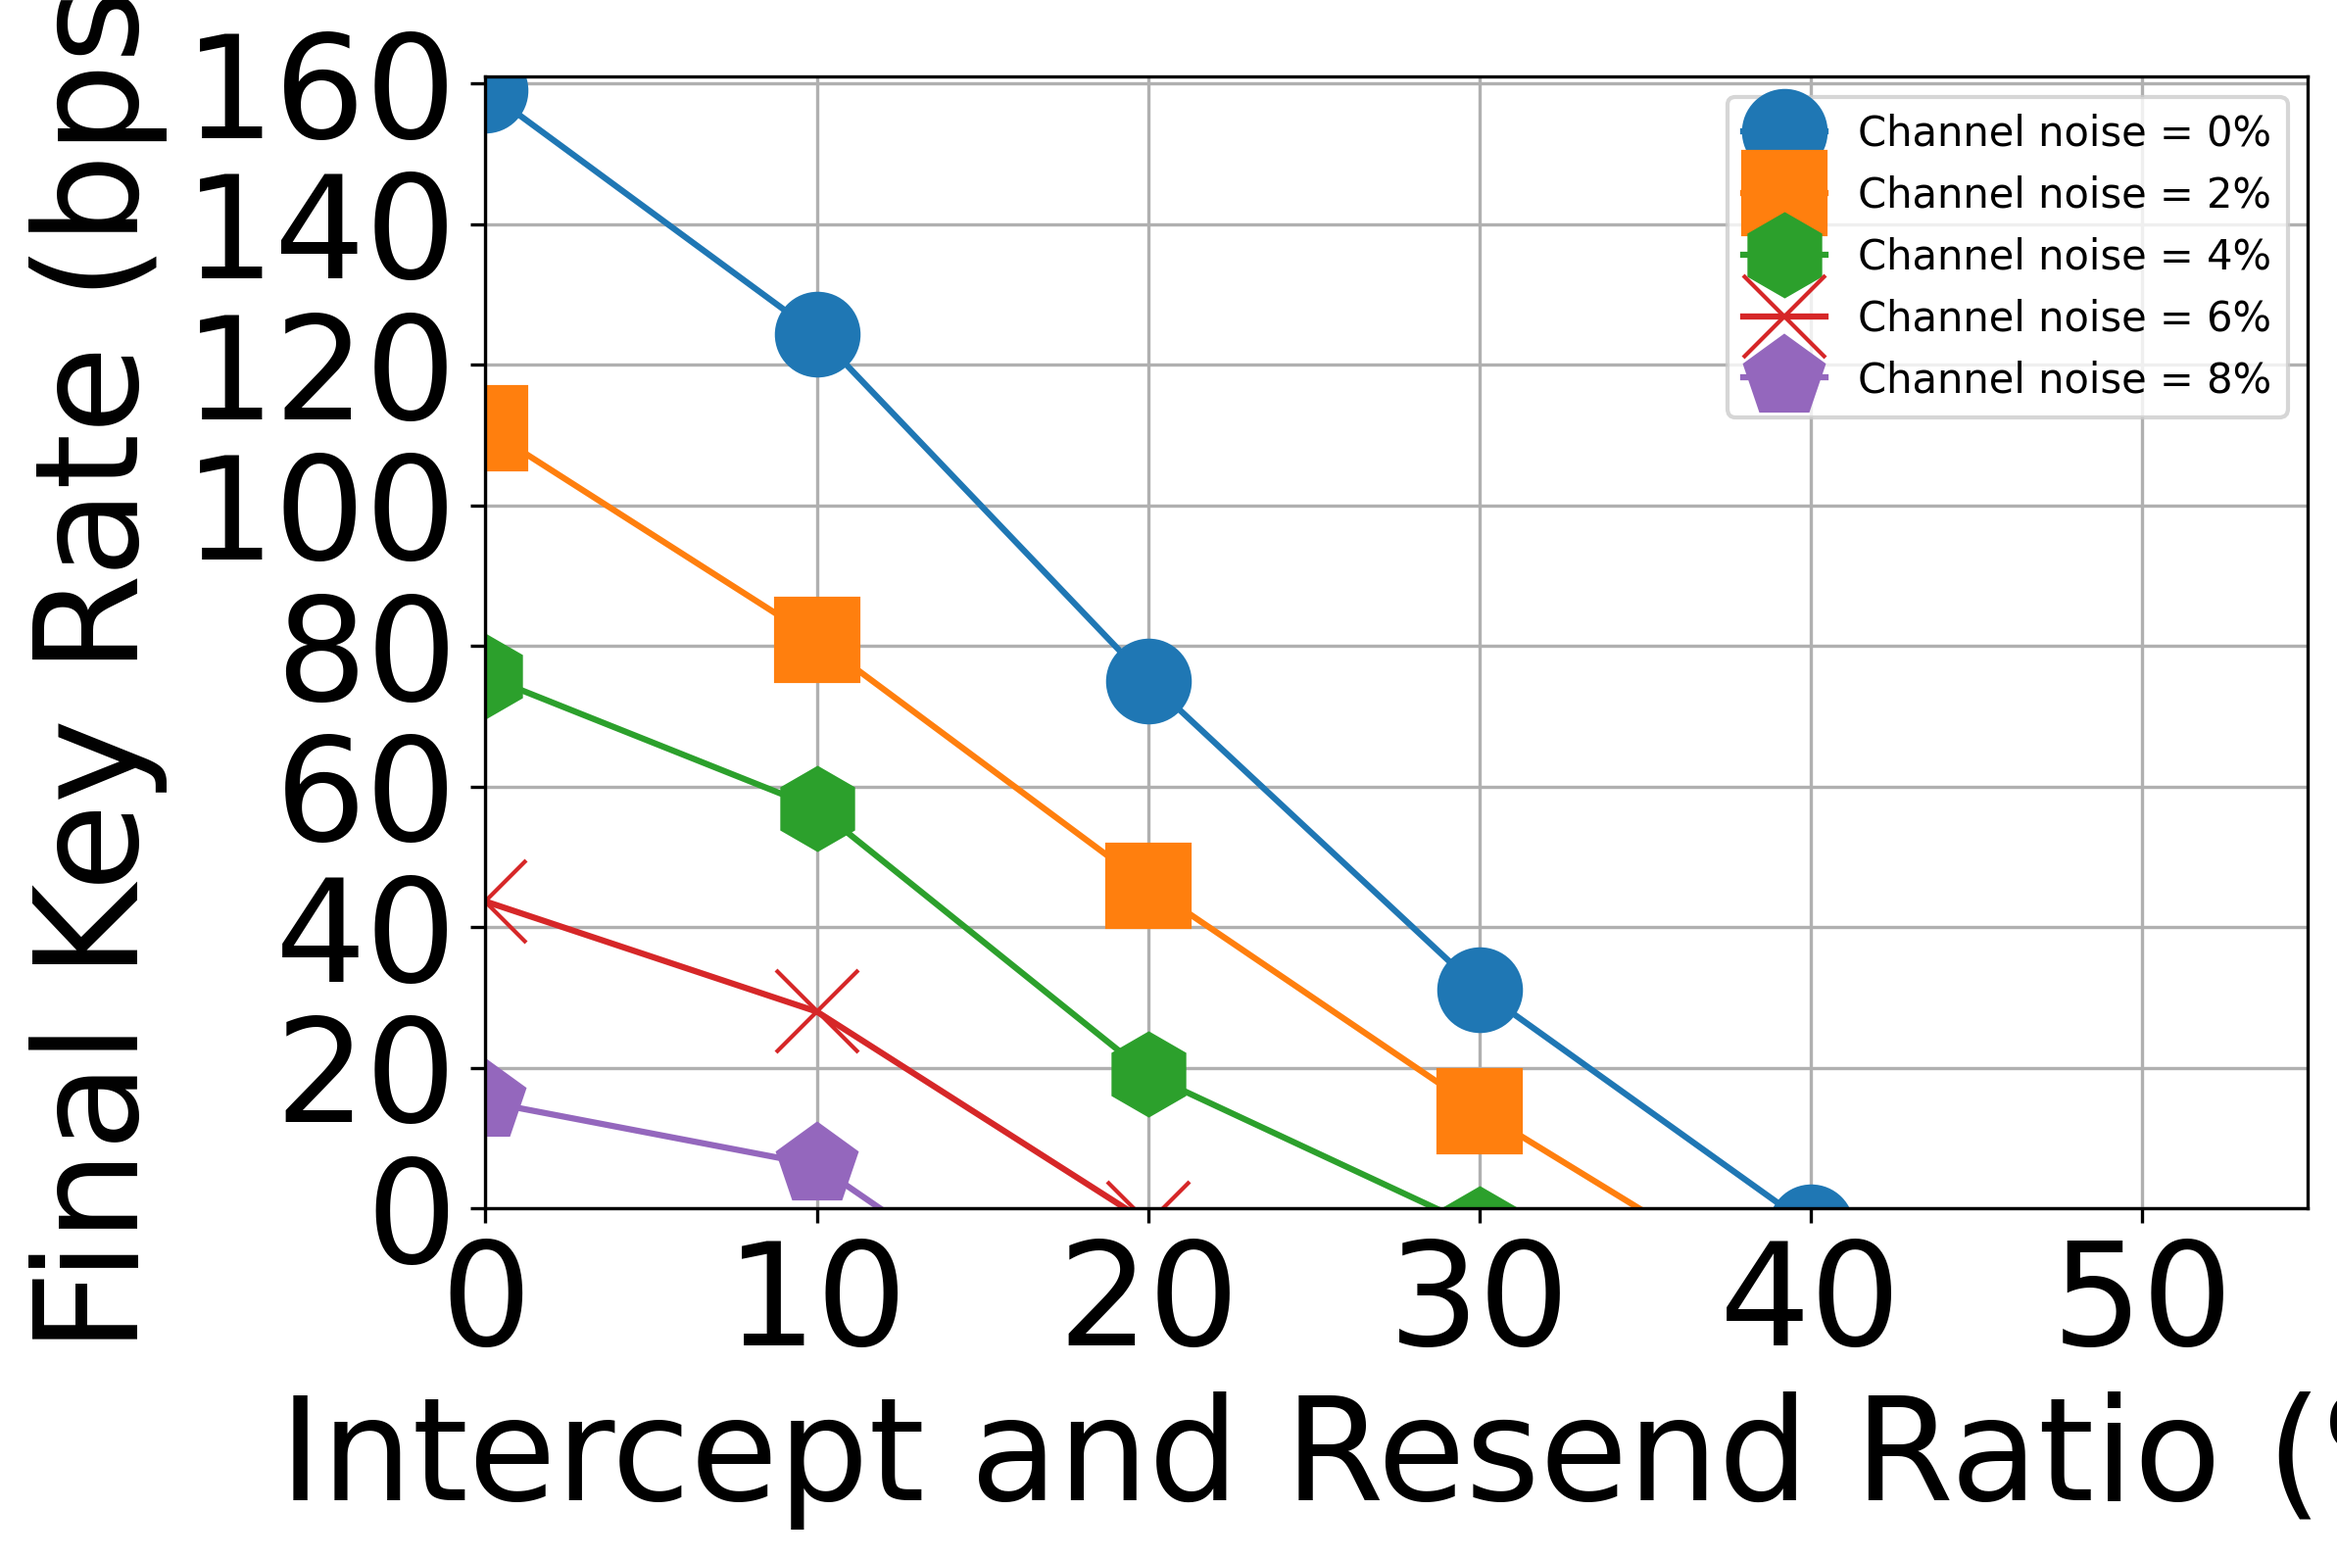
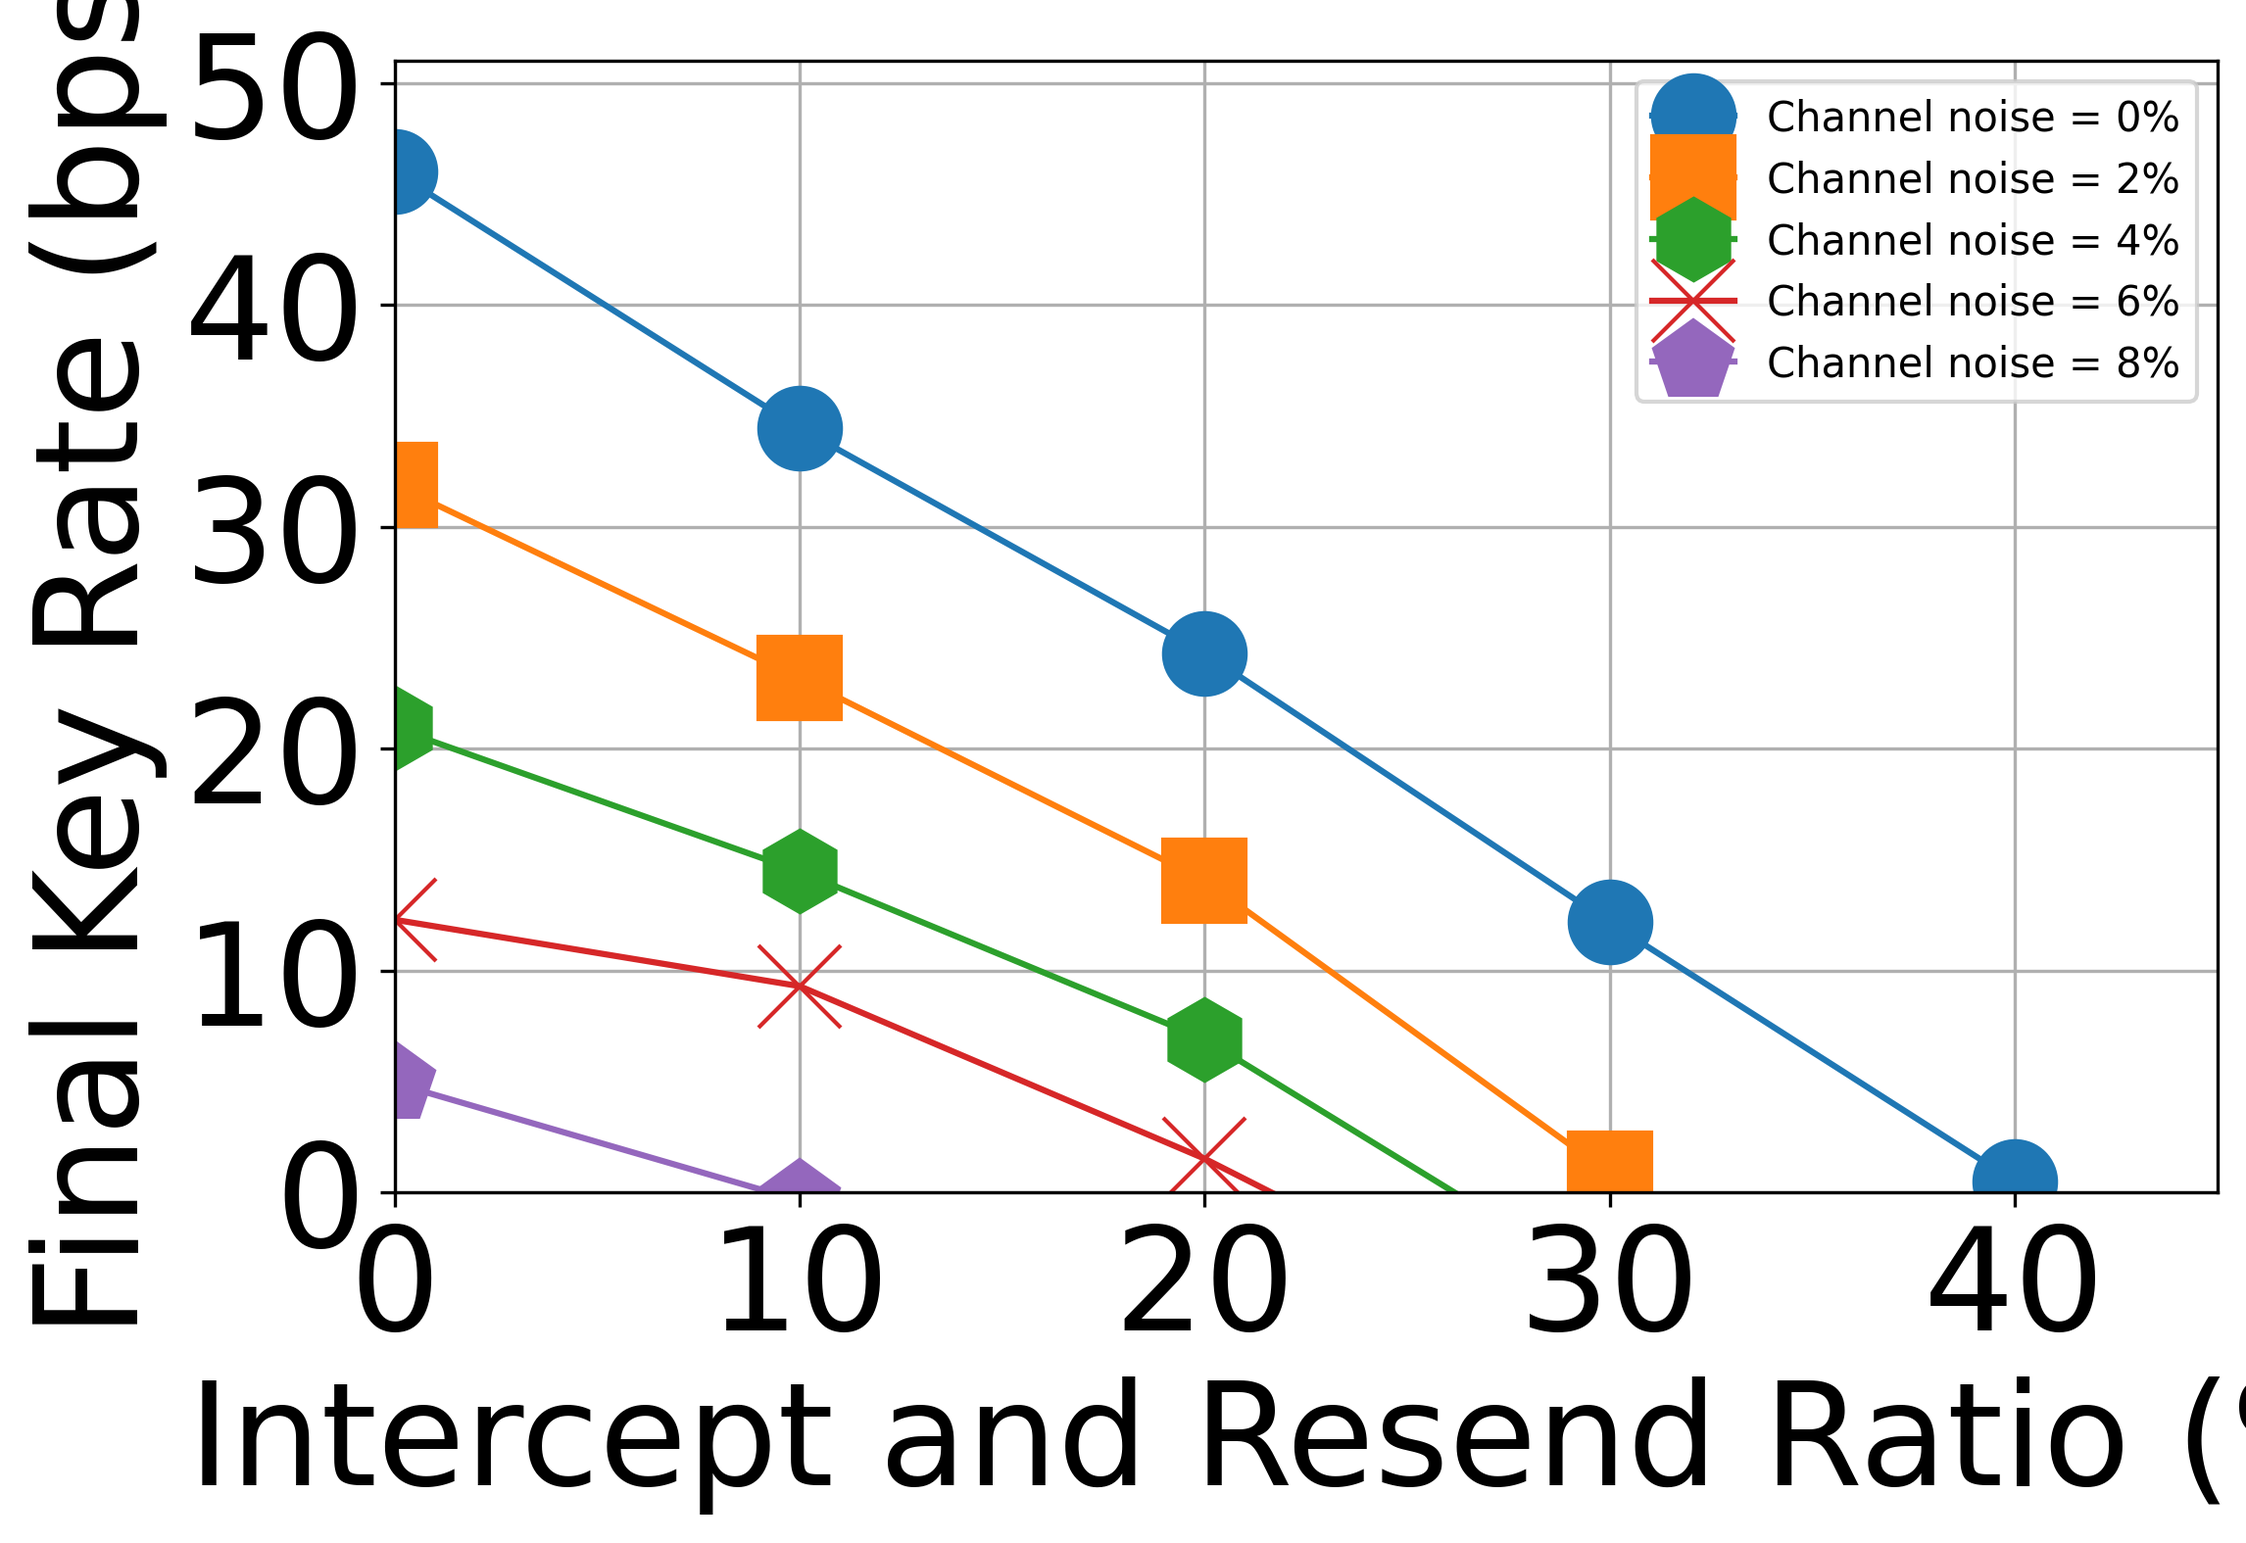
make a figure for final key rate

diff --git a/figure/intercept_resend_final_keyrate.py b/figure/intercept_resend_final_keyrate.py
@@ -5,14 +5,14 @@ import numpy as np
 intercept_resend_ratio = [0, 10, 20, 30, 40, 50]
 
 # # Data for Channel noise = 0%
-# keyrate_0 = [
-#     0.4970905368399544,
-#     0.38878548978641625,
-#     0.23462850350558143,
-#     0.0972451385226684,
-#     -0.008122235088976916,
-#     -0.0739168284062181
-# ]
+keyrate_0 = [
+    46.00454913957379,
+    34.45039171679512,
+    24.307342236469516,
+    12.172968842293953,
+    0.5072162803443963,
+    -8.885628840671801]
+
 # # Data for Channel noise = 1%
 # keyrate_1 = [
 #     0.3963073909521176,
@@ -24,14 +24,15 @@ intercept_resend_ratio = [0, 10, 20, 30, 40, 50]
 # ]
 
 # # Data for Channel noise = 2%
-# keyrate_2 = [
-#     0.34688802093838433,
-#     0.2528187245757023,
-#     0.14332935012052278,
-#     0.04339751139744282,
-#     -0.04684597921879155,
-#     -0.12577826518331722,
-# ]
+keyrate_2 = [
+    31.898361738439853,
+    23.179943034211938,
+    14.06790560729279,
+    0.8545527000489285,
+    -8.5993620701824005,
+    -100
+
+]
 
 # # Data for Channel noise = 3%
 # keyrate_3 = [
@@ -44,14 +45,14 @@ intercept_resend_ratio = [0, 10, 20, 30, 40, 50]
 # ]
 
 # # Data for Channel noise = 4%
-# keyrate_4 = [
-#     0.23672713889465177,
-#     0.1779948666282466,
-#     0.05958104606200918,
-#     -0.009066046190307998,
-#     -100,
-#     -100,
-# ]
+keyrate_4 = [
+    20.94043774071203,
+    14.469343302147495,
+    6.908592709607668,
+    -4.2912231986838867,
+    -100,
+    -100,
+]
 
 # # Data for Channel noise = 5%
 # keyrate_5 = [
@@ -63,14 +64,14 @@ intercept_resend_ratio = [0, 10, 20, 30, 40, 50]
 #     -100,
 # ]
 
-# keyrate_6 = [
-#     0.13644054071419148,
-#     0.08747306246569848,
-#     -0.006473900425140899,
-#     -0.08101399655111927,
-#     -100,
-#     -100,
-# ]
+keyrate_6 = [
+    12.291847355704155,
+    9.297725874265822,
+    1.5225080173541397,
+    -7.721431052981289,
+    -100,
+    -100,
+]
 
 
 # keyrate_7 = [
@@ -82,14 +83,14 @@ intercept_resend_ratio = [0, 10, 20, 30, 40, 50]
 #     -100,
 # ]
 
-# keyrate_8 = [
-#     0.04743629181225153,
-#     0.01926258733302285,
-#     -0.08184446359356777,
-#     -100,
-#     -100,
-#     -100
-# ]
+keyrate_8 = [
+    4.9275339807630045,
+    -0.37654978484713636,
+    -6.342538830650283,
+    -100,
+    -100,
+    -100
+]
 
 # keyrate_9 = [
 #     0.018840671790663212,
@@ -101,8 +102,8 @@ intercept_resend_ratio = [0, 10, 20, 30, 40, 50]
 # ]
 
 # keyrate_10 = [
-#     -0.01938645420814274,
-#     -0.05762118091531464,
+#     -2.64118188125766,
+#     -4.162515006979562,
 #     -100,
 #     -100,
 #     -100,
@@ -110,17 +111,17 @@ intercept_resend_ratio = [0, 10, 20, 30, 40, 50]
 # ]
 
 
-keyrate_0 = [159.07, 124.41, 75.08, 31.12, -2.60, -23.65]
-keyrate_1 = [126.82, 100.47, 63.11, 25.06, -8.57, -32.51]
-keyrate_2 = [111.00, 80.90, 45.87, 13.89, -14.99, -40.25]
-keyrate_3 = [91.96, 65.61, 26.13, 4.38, -22.18, -32000]
-keyrate_4 = [75.75, 56.96, 19.07, -2.90, -32000, -32000]
-keyrate_5 = [57.13, 38.45, 9.91, -21.19, -32000, -32000]
-keyrate_6 = [43.66, 27.99, -2.07, -25.92, -32000, -32000]
-keyrate_7 = [31.92, 14.45, -8.87, -38.71, -32000, -32000]
-keyrate_8 = [15.18, 6.16, -26.19, -32000, -32000, -32000]
-keyrate_9 = [6.03, -29.34, -32000, -32000, -32000, -32000]
-keyrate_10 = [-6.20, -18.44, -32000, -32000, -32000, -32000]
+# keyrate_0 = [159.07, 124.41, 75.08, 31.12, -2.60, -23.65]
+# keyrate_1 = [126.82, 100.47, 63.11, 25.06, -8.57, -32.51]
+# keyrate_2 = [111.00, 80.90, 45.87, 13.89, -14.99, -40.25]
+# keyrate_3 = [91.96, 65.61, 26.13, 4.38, -22.18, -32000]
+# keyrate_4 = [75.75, 56.96, 19.07, -2.90, -32000, -32000]
+# keyrate_5 = [57.13, 38.45, 9.91, -21.19, -32000, -32000]
+# keyrate_6 = [43.66, 27.99, -2.07, -25.92, -32000, -32000]
+# keyrate_7 = [31.92, 14.45, -8.87, -38.71, -32000, -32000]
+# keyrate_8 = [15.18, 6.16, -26.19, -32000, -32000, -32000]
+# keyrate_9 = [6.03, -29.34, -32000, -32000, -32000, -32000]
+# keyrate_10 = [-6.20, -18.44, -32000, -32000, -32000, -32000]
 # Plotting the data
 plt.figure(figsize=(8, 5))
 plt.plot(intercept_resend_ratio, keyrate_0, marker='o', label='Channel noise = 0%', markersize=20)
@@ -136,14 +137,12 @@ plt.plot(intercept_resend_ratio, keyrate_8, marker='p', label='Channel noise = 8
 # plt.plot(intercept_resend_ratio, keyrate_10, marker='D', label='Channel noise = 10%', markersize=20)
 
 
-plt.xlim(0, 55)
-plt.ylim(0, 161)
+plt.xlim(0, 45)
+plt.ylim(0, 51)
 
 
-plt.xticks(np.arange(0, 55, 10), fontsize=35
-           )  # Increase font size for x-axis ticks
-plt.yticks(np.arange(0, 161, 20), fontsize=35)  # Increase font size for y-axis ticks
-
+plt.xticks(np.arange(0, 45, 10), fontsize=35)  # Increase font size for x-axis ticks
+plt.yticks(np.arange(0, 51, 10), fontsize=35)  # Increase font size for y-axis ticks
 
 
 # Adding labels and title
